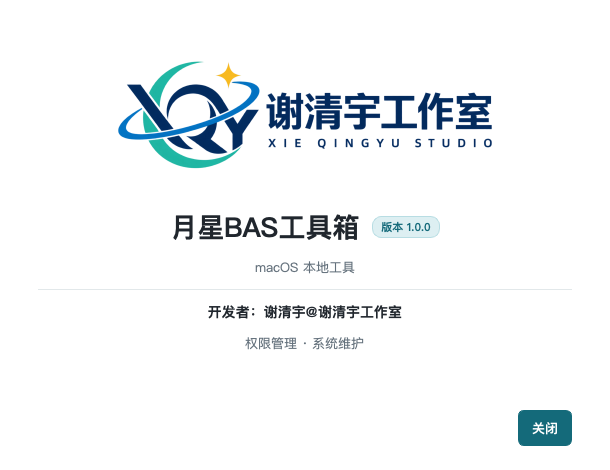
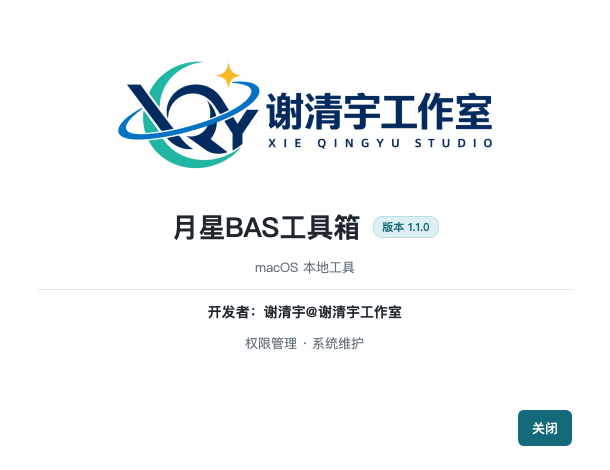
1.1.0

Changed region(s): [[0.2803, 0.4468, 0.5918, 0.5064], [0.623, 0.4766, 0.7164, 0.5064]]

diff --git a/CHANGELOG.md b/CHANGELOG.md
@@ -1,0 +1,48 @@
+# 更新日志
+
+## 1.1.0 - 2026-10-19
+
+### 新增
+
+- 在“系统维护”中加入“OC 主题”页面。
+- 自动发现已挂载的 EFI/OC，支持手动选择目录和跳转 EFI 管理页。
+- 一键应用谢清宇工作室 OpenCanopy 主题、背景、图标、中文标签和驱动。
+- 应用前自动备份配置、标签、原主题和原 OpenCanopy 驱动。
+- 应用后使用 `plutil -lint` 校验，失败时自动回滚。
+- 从工具管理的主题备份列表一键还原，还原前再次保存当前状态。
+
+### 改进
+
+- 主题安装与还原逻辑抽离为独立核心模块，GUI 和命令行共用。
+- 打包应用内置完整 OpenCore 主题资源。
+- 补充主题管理截图、操作说明、回滚说明和备份路径。
+- 新增主题安装、覆盖恢复、非法备份拒绝和校验失败回滚测试。
+
+### 验证
+
+- `pytest`: 141 passed
+- Ruff 检查与格式检查通过
+- DMG 挂载、版本和深度签名验证通过
+
+## 1.0.0 - 2026-10-19
+
+### 新增
+
+- 动态权限页改为左侧应用、右侧权限的即时开关模式。
+- 开启动态写入允许，关闭删除对应用户级 TCC 记录。
+- 每次切换自动备份并回读验证，不弹二次确认。
+- 动态权限列表固定使用中文应用名，支持 Spotlight 和 Bundle ID 回退。
+
+### 改进
+
+- 源码模块、测试和 README 重新整理。
+- 将动态权限页迁移为独立 `dynamic_permissions_page` 模块。
+
+## 0.10.0
+
+- 初版动态权限开关页面。
+
+## 0.9.0
+
+- 新增登录时自动启动设置。
+- 新增自动清理系统更新红点。
